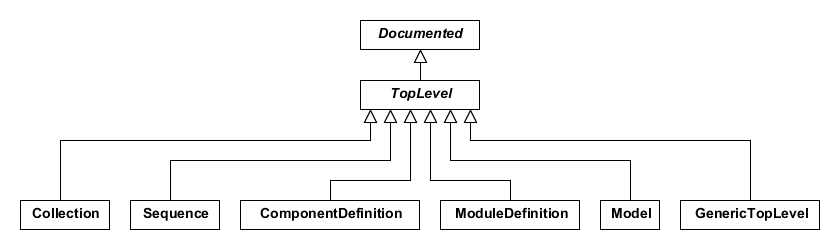
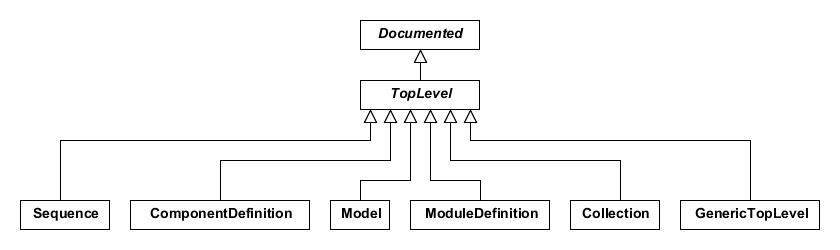
Update on Overleaf.

diff --git a/model.tex b/model.tex
@@ -6,9 +6,11 @@ In this section, we describe the types of biological design data that can belong
 \subsection{Understanding the UML Diagrams}
 \label{sec:umldiagrams}
 
-The types of biological design data modeled by SBOL are commonly referred to as {\em classes}, especially when discussing the details of software implementation. Classes are represented in UML diagrams as rectangles labeled at the top with class names. Classes may be connected to other classes by association properties, which are represented in UML diagrams as arrows. These arrows are labeled with data cardinalities in order to indicate how many values a given association property may possess (see below). The remaining (non-association) properties of a class are listed below its name. Each one of these properties is labeled with its data type and cardinality. Finally, classes can inherit the properties of other classes. Inheritance relationships are represented in UML diagrams as open-faced, triangular arrows that point from the inheriting class to the inherited class.
+The types of biological design data modeled by SBOL are commonly referred to as {\em classes}, especially when discussing the details of software implementation. Each SBOL class can be instantiated by many SBOL objects. These objects may contain data that differ in content, but they MUST agree on the type and form of their data as dictated by their common class. Classes are represented in UML diagrams as rectangles labeled at the top with class names.
 
-As mentioned above, an association property is a directional relationship between two SBOL classes that is represented using an arrow. The class from which an arrow originates is the owner of the association property, while the class to which the arrow points is the value of the association property. A diamond at the origin of the arrow indicates the type of association. Open-faced diamonds indicate shared aggregation, in which that the owner of the association property exists independently of its value. By contrast, filled diamonds indicate composite aggregation, also known as a part-whole relationship, in which the value of the association property cannot exist independently of its owner. 
+Classes may be connected to other classes by association properties, which are represented in UML diagrams as arrows. These arrows are labeled with data cardinalities in order to indicate how many values a given association property may possess (see below). The remaining (non-association) properties of a class are listed below its name. Each one of these properties is labeled with its data type and cardinality.
+
+In the case of an association property, the class from which the arrow originates is the owner of the association property, while the class to which the arrow points is the value of the association property. A diamond at the origin of the arrow indicates the type of association. Open-faced diamonds indicate shared aggregation, in which the owner of the association property exists independently of its value. By contrast, filled diamonds indicate composite aggregation, also known as a part-whole relationship, in which the value of the association property MUST NOT exist independently of its owner. In addition, in the SBOL data model, it is REQUIRED that the value of each composite aggregation property is unique (that is, not the value for more than one such property).
 %For example, it will later be shown how objects of the \sbol{SequenceAnnotation} class must associated with an object of the \sbol{ComponentDefinition} class (and only that object).
 
 All SBOL properties are labeled with one of several restrictions on data cardinality. These are:
@@ -27,31 +29,20 @@ All SBOL properties are labeled with one of several restrictions on data cardina
 
 \end{itemize}
 
-\subsection{Naming Conventions}
+Finally, classes can inherit the properties of other classes. Inheritance relationships are represented in UML diagrams as open-faced, triangular arrows that point from the inheriting class to the inherited class. Some classes in the SBOL data model cannot be instantiated as objects and exist only to group common properties for inheritance. These classes have italicized names and are known as abstract classes.
+
+\subsection{Naming and Font Conventions}
 \label{sec:nameconventions}
 
-\Rtodo{Need to put in typography and upper case vs. camel case, etc. / Done. - Nic}
-
-In this text, data objects are denoted by {\tt monospace font} and all SBOL objects and properties are designated by blue links.
-SBOL classes are generally given an upper case ``proper noun'' name, e.g. \sbol{Identified}.  
-Properties, on the other hand, are named using ``camel case,'' meaning that they begin lower case (e.g., \sbol{identity}) but if they consist of multiple words, all words after the first begin with an upper case letter (e.g., \sbol{persistentIdentity}).
+SBOL classes are named using upper "camel case," meaning that each word is capitalized and all words are run together without spaces e.g. \sbol{Identified}, \sbol{SequenceAnnotation}.  
+Properties, on the other hand, are named using lower camel case, meaning that they begin lower case (e.g., \sbol{identity}) but if they consist of multiple words, all words after the first begin with an upper case letter (e.g., \sbol{persistentIdentity}).
 
 Within the SBOL data model, each property is given a singular or plural name in accordance with its data cardinalities. The forms of these names follow the usual rules of grammar. For example, \sbol{sequenceAnnotation} is the singular form of \sbol{sequenceAnnotation}s. 
 
-Within the \emph{Resource Description Framework} (RDF) serialization of SBOL (see \ref{sec:serialization}), however, SBOL properties are always given singular names. This is because the SBOL data model does not contain classes that correspond directly to the RDF elements that group elements into ordered or unordered sets. Consequently, if an SBOL property has multiple values, than it is serialized as multiple property entries, each with a singluar name and a single value.
-For example, if a SBOL property has five values, then its serialization contains five RDF triples, each with a singular predicate name and one of the five values as its object.
-
-In both the SBOL data model and RDF serialization, property names are written in lower camel case. That is, property names are written as compound words in which each word after the first is capitalized. Class names, however, are written in upper camel case, in which the first word is capitalized as well.
+When SBOL objects are serialized to be exchanged (using \emph{Resource Description Framework} (RDF) as described in \ref{sec:serialization}), however, SBOL properties are always given singular names. This is because the SBOL data model does not contain classes that correspond directly to the RDF elements that group other elements into ordered or unordered sets. Consequently, if an SBOL property has multiple values, then it is serialized as multiple property entries, each with a singular name and a single value.
+For example, if an SBOL property has five values, then its serialization contains five RDF triples, each with a singular predicate name and one of the five values as its object.
 
 Lastly, font color is used in the body text of this specification to indicate whether a class or property is defined externally or within the SBOL data model. In particular, if a class or property name is written in a blue font, then it is defined by SBOL. If it is written in a bold font, then it is defined externally.
-
-\Rtodo{has RDF been introduced yet? / Added pointer to later section on RDF. - Nic}
-
-\Rtodo{has RDF been introduced yet?}
-
-When SBOL objects are serialized to be exchanged (using RDF as described in \ref{sec:serialization}), however, SBOL properties are always given singular names.
-This is because the serialization writes each property element down individually, so if there are multiple values, they are represented as several entries of a single value each.
-For example, if a SBOL property has five values, then its serialization contains five RDF triples with singular predicate names.
 
 \subsection{Data Types}
 \label{sec:datatypes}
@@ -73,19 +64,23 @@ When SBOL use simple ``primitive'' data types such as strings or integers, these
 
 \Ctodo{Put a small concrete example for each toplevel, in the style of the mapsTo diagram}
 
+All SBOL-defined classes are directly or indirectly derived from the \sbol{Identified}  abstract class. This inheritance means that all SBOL objects are identified using \external{URI}s that uniquely refer to these objects within an SBOL document or at locations on the World Wide Web. 
+
+As shown in \ref{uml:identified}, the \sbol{Identified} class includes the following properties: \sbol{identity}, \sbol{persistentIdentity},  \sbol{version}, and \sbol{annotations}. The latter property is described separately in \ref{sec:annotations}.
+
 \begin{figure}[ht]
 \begin{center}
 \includegraphics[scale=0.6]{uml/identified}
-\caption[]{The Identified abstract class}
+\caption[]{The \sbol{Identified} abstract class.}
 \label{uml:identified}
 \end{center}
 \end{figure}
 
-All SBOL-defined classes are directly or indirectly derived from the \sbol{Identified}  class. This inheritance means that all SBOL objects are identified using \external{URI}s that uniquely refer to these objects within an SBOL document or at locations on the World Wide Web. As shown in \ref{uml:identified}, the \sbol{Identified} class includes the following properties: \sbol{identity}, \sbol{persistentIdentity},  \sbol{version}, and \sbol{annotations}. The latter property is described separately in \ref{sec:annotations}.
-
 \subsubsection*{The \sbolheading{identity} property}
 \label{sec:identity}
-The \sbol{identity} property is required by all \sbol{Identified} objects and has a data type of \external{URI}. This \external{URI} serves to uniquely identify an SBOL object. Although most SBOL properties are defined by SBOL and serialized with its namespace, the \sbol{identity} property is defined by the analogous RDF \external{about} property and is serialized with the RDF namespace as follows:
+The \sbol{identity} property is REQUIRED by all \sbol{Identified} objects and has a data type of \external{URI}. A given \sbol{Identified} object's \sbol{identity} \external{URI} MUST be globally unique among all other \sbol{identity} \external{URI}s. 
+
+Although most SBOL properties are defined by SBOL and serialized with its namespace, the \sbol{identity} property is defined by the analogous RDF \external{about} property and is serialized with the RDF namespace as follows:
 
 \external{http://www.w3.org/1999/02/22-rdf-syntax-ns\#about}.
 
@@ -93,83 +88,75 @@ This substitution is in keeping with the commitment of the SBOL community to the
 
 \subsubsection*{The \sbolheading{persistentIdentity} property}
 \label{sec:persistentIdentity}
-The \sbol{persistentIdentity} property is optional and also has a data type of \external{URI}. This \external{URI} serves to uniquely refer to a set of SBOL objects that are different versions of each other. An SBOL object can referred to by either its \sbol{identity} \external{URI} or its \sbol{persistentIdentity} \external{URI}. In the latter case, this reference only holds if the SBOL object has the latest \sbol{version} property out of those objects with the same \sbol{persistentIdentity}.
+The \sbol{persistentIdentity} property is OPTIONAL and has a data type of \external{URI}. This \external{URI} serves to uniquely refer to a set of SBOL objects that are different versions of each other. 
+
+An \sbol{Identified} object MUST be referred to in association properties using its \sbol{identity} \external{URI} or its \sbol{persistentIdentity} \external{URI}. In the latter case, this reference only holds if the SBOL object has the latest \sbol{version} property of all objects with the same \sbol{persistentIdentity}.
 
 \subsubsection*{The \sbolheading{displayId} property}
 \label{sec:displayId}
-An optional identifier, with a data type of \external{String}. It is intended to be an intermediate between \sbol{name} and \sbol{identity}.
-It is machine-friendly text that is intended to be locally unique (though global uniqueness is not guaranteed), but more human-friendly than the full URI of an \sbol{identity}.
+The \sbol{displayId} property is an OPTIONAL identifier with a data type of \external{String}. This property is intended to be an intermediate between \sbol{name} and \sbol{identity} that is machine-readable, but more human-readable than the full \external{URI} of an \sbol{identity}. 
+
+If the \sbol{displayId} property is used, then its \external{String} value SHOULD be locally unique (global uniqueness is not required) and MUST be compliant with the type \external{http://www.w3.org/TR/xmlschema-2/\#NCName}
 
 \Ctodo{This is the wrong syntax.  It allows "-" and "." which we do not allow.}
-
-In particular, displayId string MUST be compliant with type \external{http://www.w3.org/TR/xmlschema-2/\#NCName}
-%
-Every SBOL implementation MUST enforce such compliance.
-
-\Rtodo{SHOULD sanitize your displayId entries}
 
 \subsubsection*{The \sbolheading{version} property}
 \label{sec:version}
 
-\Rtodo{need to somehow explain stuff about Maven versioning.}
-The \sbol{version} property is optional and has a data type of \external{String}. This property can be used to compare two SBOL objects with the same \sbol{persistentIdentity}.
+The \sbol{version} property is OPTIONAL and has a data type of \external{String}. This property can be used to compare two SBOL objects with the same \sbol{persistentIdentity}.
 
-If the \sbol{version} property is used, it is RECOMMENDED that version numbering should follow the conventions of semantic versioning (\url{http://semver.org/}), particularly as implemented by Maven (\url{http://maven.apache.org/}).
-This convention represents versions as a sequence of numbers and qualifiers separated by {\tt .} and {\tt -} characters and compared in lexicographical order (e.g., 1 < 1.3.1 < 2.0-beta).
+If the \sbol{version} property is used, then it is RECOMMENDED that version numbering should follow the conventions of semantic versioning (\url{http://semver.org/}), particularly as implemented by Maven (\url{http://maven.apache.org/}).
+This convention represents versions as sequences of numbers and qualifiers separated by the characters {\tt .} and {\tt -} and compared in lexicographical order (for example, 1 < 1.3.1 < 2.0-beta).
 For a full explanation, see the linked resources.
 
 
 \subsection {Documented}
 \label{sec:Documented}
-The Documented class in SBOL represents objects that can be decorated with human-readable properties, such as name and description. This class extends \sbol{Identified} with three additional data properties: \sbol{displayId}, \sbol{name}, and \sbol{description} (\ref{uml:documented}). 
+The \sbol{Documented} abstract class is inherited by the classes of SBOL objects that can contain human-readable properties, such as name and description. This class extends \sbol{Identified} with two additional data properties: \sbol{name}, and \sbol{description} (\ref{uml:documented}). 
 
 \begin{figure}[ht]
 \begin{center}
 \includegraphics[scale=0.6]{uml/documented}
-\caption[]{The Documented class}
+\caption[]{The \sbol{Documented} abstract class.}
 \label{uml:documented}
 \end{center}
 \end{figure}
 
 \subsubsection*{The \sbolheading{name} property}
 \label{sec:name}
-An optional, human readable name property, with a data type of \external{String}. It is intended to be displayed to a human when visualising SBOL objects.  
-If a \sbol{Documented} object lacks a name, it is expected that software tools will instead display the entity's \sbol{displayId} or \sbol{identity}.
-It is RECOMMENDED that any software tool give users the ability to switch perspectives between looking at names (for human-friendliness) and looking at displayIds (for better uniqueness).
-
-\Rtodo{name is no longer the preferred, also we need to say that displayId should be to the best of one's ability locally unique.  And RECOMMEND that any software tool give people the ability to switch perspectives between looking at names (for human-friendliness) and looking at displayIds (for better uniqueness).}
 
 \Ctodo{Need to require use of DublinCore names and show examples of them: non-stanard mappings per Matt: Title vs. Name, descripton is dcterms:description}
 
+The \sbol{name} property is OPTIONAL and has a data type of \external{String}. This property is intended to be displayed to a human when visualizing an \sbol{Documented} object.
+
+If a \sbol{Documented} object lacks a name, then software tools SHOULD instead display the object's \sbol{displayId} or \sbol{identity}.
+It is RECOMMENDED that software tools give users the ability to switch perspectives between \sbol{name}s that are human-readable and \sbol{displayId}s that are less human-readable, but are more likely to be unique.
+
 \subsubsection*{The \sbolheading{description} property}
 \label{sec:description}
-An OPTIONAL, free text property with the data type of \external{String}, intended to contain a more thorough description of an object.
+The \sbol{description} property is OPTIONAL and has a data type of \external{String}. This property is intended to contain a more thorough description of a \sbol{Documented} object.
 
 
 \subsection {TopLevel}
 \label{sec:TopLevel}
-\sbol{TopLevel} is an abstract class that is extended by any \sbol{Documented} object that can be found at the top level of a SBOL file, i.e., any SBOL object that is not nested inside another object when written to a file. Instead of nesting, composite \sbol{TopLevel} objects link to their subordinate \sbol{TopLevel} objects via \external{URI}s when written to a file. For example, a composite \sbol{Component} object A would link to its sub-Component object B using B's \external{URI}. The TopLevel classes defined by this specification are \sbol{Sequence}, \sbol{ComponentDefinition}, \sbol{ModuleDefinition}, \sbol{Module}, \sbol{Collection} and \sbol{GenericTopLevel} (\ref{uml:toplevel}).
+\sbol{TopLevel} is an abstract class that is extended by any \sbol{Documented} class that can be found at the top level of an SBOL file. In other words, when an object that belongs to a \sbol{TopLevel} class is serialized to a file representation, it is not nested inside any other object. Instead of nesting, composite \sbol{TopLevel} objects refer to subordinate \sbol{TopLevel} objects by their \sbol{identity} or \sbol{persistentIdentity} \external{URI}s. The \sbol{TopLevel} classes defined by this specification are \sbol{Sequence}, \sbol{ComponentDefinition}, \sbol{Model}, \sbol{ModuleDefinition},  \sbol{Collection}, and \sbol{GenericTopLevel} (\ref{uml:toplevel}).
 
 \begin{figure}[ht]
 \begin{center}
 \includegraphics[width=\textwidth]{uml/toplevel}
-\caption[]{The TopLevel classes}
+\caption[]{Classes that inherit from the \sbol{TopLevel} abstract class.}
 \label{uml:toplevel}
 \end{center}
 \end{figure}
 
-\Ctodo{Make the left-right order in this figure match the order of the following sections}
-
-
-
 \subsection{Sequence}
 \label{sec:Sequence}
-The \sbol{Sequence} class is used to encode the primary structure of a \sbol{ComponentDefinition} object and the encoding used to capture this information.
+The purpose of the \sbol{Sequence} class is to represent the primary structure of a \sbol{ComponentDefinition} object and the manner in which it is encoded. This representation is accomplished  by means of the \sbol{elements} property and \sbol{encoding} property (\ref{uml:sequence}).
 
 \begin{figure}[ht]
 \begin{center}
 \includegraphics[scale=0.6]{uml/sequence}
-\caption[]{Sequence class}
+\caption[]{The \sbol{Sequence} class.}
 \label{uml:sequence}
 \end{center}
 \end{figure}
@@ -177,38 +164,31 @@ The \sbol{Sequence} class is used to encode the primary structure of a \sbol{Com
 
 \subsubsection*{The \sbolheading{elements} property}
 \label{sec:elements}
-A REQUIRED \external{String} of characters that represent the constituents of biological molecule, for example nucleic acid symbols for DNA molecules or amino acid symbols for a protein sequence.
-
-\Rtodo{give non-DNA example too -JSB}
+The \sbol{elements} property is a REQUIRED \external{String} of characters that represents the constituents of a biological or chemical molecule. For example, these characters could represent the nucleotide bases of a molecule of DNA, the amino acid residues of a protein, or the atoms and chemical bonds of a small molecule.
 
 \subsubsection*{The \sbolheading{encoding} property}
 \label{sec:encoding}
-This REQUIRED property contains a \external{URI} used by \sbol{Sequence} objects to how it interpret the characters describing their elements.
-For example, a \sbol{Sequence} object that encodes a DNA sequence would have an \external{IUPAC DNA} encoding, while a \sbol{Sequence} object that encodes the chemical structure of glucose might have a \external{simplified molecular-input line-entry system (SMILES)} encoding.
-\ref{tbl:sequence_encodings} provides a list of RECOMMENDED encodings to be used.
-
-\Rtodo{These are RECOMMENDED.}
+The \sbol{encoding} property is REQUIRED and has a data type of \external{URI}. This property is used to indicate how the \sbol{elements} property of its \sbol{Sequence} object MUST be formed and interpreted.
+For example, a \sbol{Sequence} object that represents a DNA sequence would have an \external{IUPAC DNA} encoding that requires the \sbol{elements} property to contain characters that represent nucleotide bases, such as {\tt a}, {\tt t}, {\tt c}, and {\tt g}. A \sbol{Sequence} object that represents the chemical structure of glucose, however, might have a \external{simplified molecular-input line-entry system (SMILES)} encoding that requires the \sbol{elements} property to contain characters that represent atoms and bonds, such as {\tt C}, {\tt N}, {\tt O}, and {\tt =}.
+\ref{tbl:sequence_encodings} provides a list of RECOMMENDED encoding \external{URI}s.
 
 %A Summary of letters for nucleic acids and aminoacids
 \begin{table}[ht]
-  \begin{edtable}{tabular}{ll}
+  \begin{edtable}{tabular}{lll}
     \toprule
-    \textbf{BioPAX term} & \textbf{Encoding} \\
+     \textbf{Encoding} & \textbf{URI} & \textbf{ComponentDefinition Type} \\
     \midrule
-    DnaRegion,RnaRegion  & \url{http://www.chem.qmul.ac.uk/iubmb/misc/naseq.html}\\
-    Protein		 & \url{http://www.chem.qmul.ac.uk/iupac/AminoAcid/}\\
-    SmallMolecule    & \url{http://www.opensmiles.org/opensmiles.html}\\
+     IUPAC DNA, RNA & \url{http://www.chem.qmul.ac.uk/iubmb/misc/naseq.html} & DnaRegion,RnaRegion \\
+    IUPAC Protein & \url{http://www.chem.qmul.ac.uk/iupac/AminoAcid/} & Protein\\
+   SMILES & \url{http://www.opensmiles.org/opensmiles.html} & SmallMolecule \\
     \bottomrule
   \end{edtable}
-  \caption{The RECOMMENDED URIs for encoding common types of sequences, specified by BioPAX term (see \ref{tbl:componentdefinition_types}).  When the sequence is included in a \sbol{ComponentDefinition}, the encoding SHOULD match at least one of its \sbol{types}}
+  \caption{The RECOMMENDED \external{URI}s for encoding common types of sequences, organized by corresponding BioPAX \sbol{types} of \sbol{ComponentDefinition}s (see \ref{tbl:componentdefinition_types}). When a \sbol{ComponentDefinition} includes a \sbol{Sequence}, the \sbol{encoding} property of the \sbol{Sequence} SHOULD correspond to at least one of the BioPAX \sbol{types} of the \sbol{ComponentDefinition}.}
   \label{tbl:sequence_encodings}
 \end{table}
-\Rtodo{Need to fix the caption of table 1, and need to match the biopa terms and give a forward pointer to table 2}
-\Ctodo{Matthew Pocock is in charge of deciding whether any more ontologies should be listed.}
-\LDtodo{GM: Add the BioPax terms Dna and Rna in addition to DnaRegion and RnaRegion.  JSB: is this wise?  What distinguishes a Dna from a DnaRegion for the requirement of component-type?}
 
-
-The serialization of \sbol{Sequence} objects has the following form:
+\subsubsection*{Serialization}
+The serialization of a \sbol{Sequence} object has the following form:
 \lstsetsbol
 \begin{lstlisting}
 <sbol:Sequence rdf:about="...">
@@ -218,7 +198,7 @@ The serialization of \sbol{Sequence} objects has the following form:
 </sbol:Sequence>
 \end{lstlisting}
 
-The example below shows the serialization of a \sbol{Sequence} object for a promoter. Nucleotide sequences are represented with the \sbol{elements} property and the \sbol{encoding} is serialized as a URI value. 
+The example below shows the serialization of the \sbol{Sequence} object for the \sbol{ComponentDefinition} of a promoter. The nucleotide bases of the \sbol{Sequence} are serialized as the \external{String} value for its \sbol{elements} property, while its \external{IUPAC DNA} encoding is serialized as the \external{URI} value for its  \sbol{encoding} property. 
 
 \lstsetsbol
 \begin{lstlisting}
@@ -232,8 +212,8 @@ The example below shows the serialization of a \sbol{Sequence} object for a prom
 \subsection{ComponentDefinition}
 \label{sec:ComponentDefinition}
 
-A \sbol{ComponentDefinition} is an entity in the biological system that is being represented. Its motivating usage is to represent objects with designed sequences (DNA, RNA, or proteins), but it can also represent any other object that is part of or interacts with a design, such as small molecules, molecular complexes, or light.
-(this is a generalization from prior versions of SBOL, which only represented DNA).
+The \sbol{ComponentDefinition} class represents the structural entities of a biological system design. The primary usage of this class is to represent entities with designed sequences, such as DNA, RNA, and proteins, but it can also be used to represent any other object that is part of the design, such as small molecules, molecular complexes, and light.
+(this is a generalization from prior versions of SBOL, which only represented DNA). As shown in \ref{uml:component_definition}, the \sbol{ComponentDefinition} class is described by the properties \sbol{types}, \sbol{roles}, and \sbol{sequence}. In addition, the class includes properties for describing and organizing its substructure, including \sbol{components}, \sbol{sequenceConstraint}s, and  \sbol{sequenceAnnotation}s.
 
 % Figure has some classes named incorrectly
 \begin{figure}[ht]
@@ -243,7 +223,6 @@ A \sbol{ComponentDefinition} is an entity in the biological system that is being
 \label{uml:component_definition}
 \end{center}
 \end{figure}
-
 
 
 \LDtodo{Examples of ontologies for non-molecular type gs (eg, light)...?}
